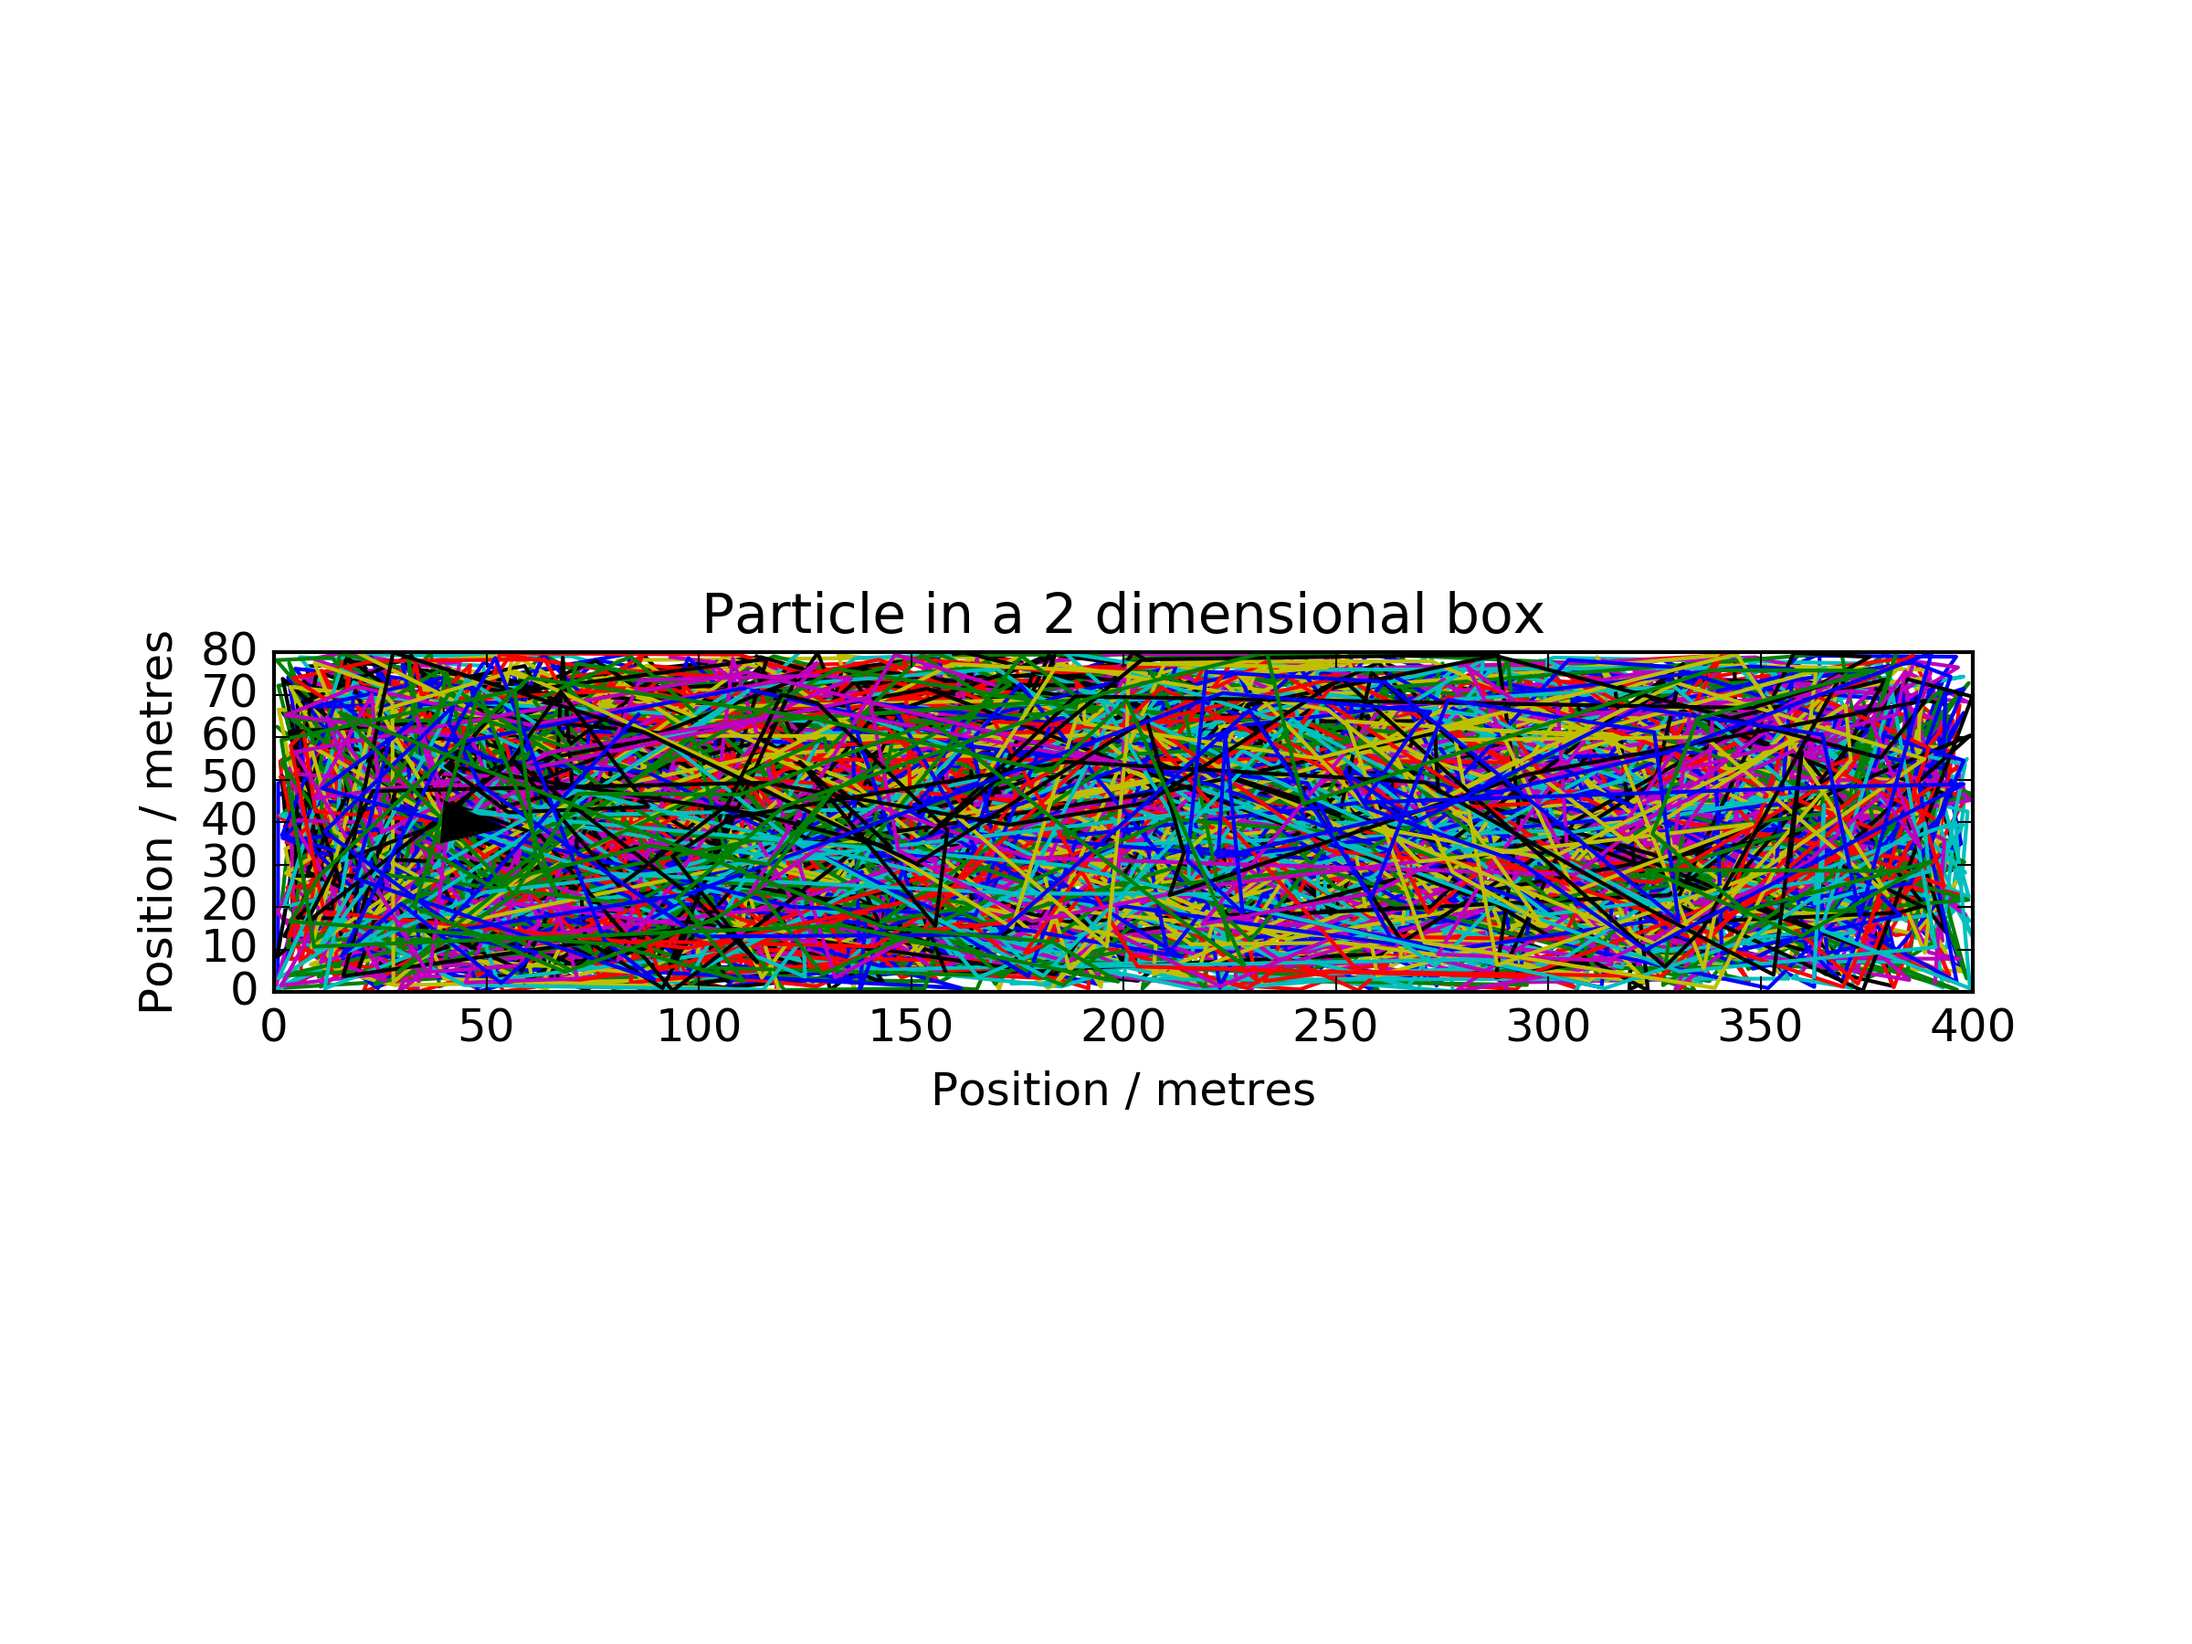
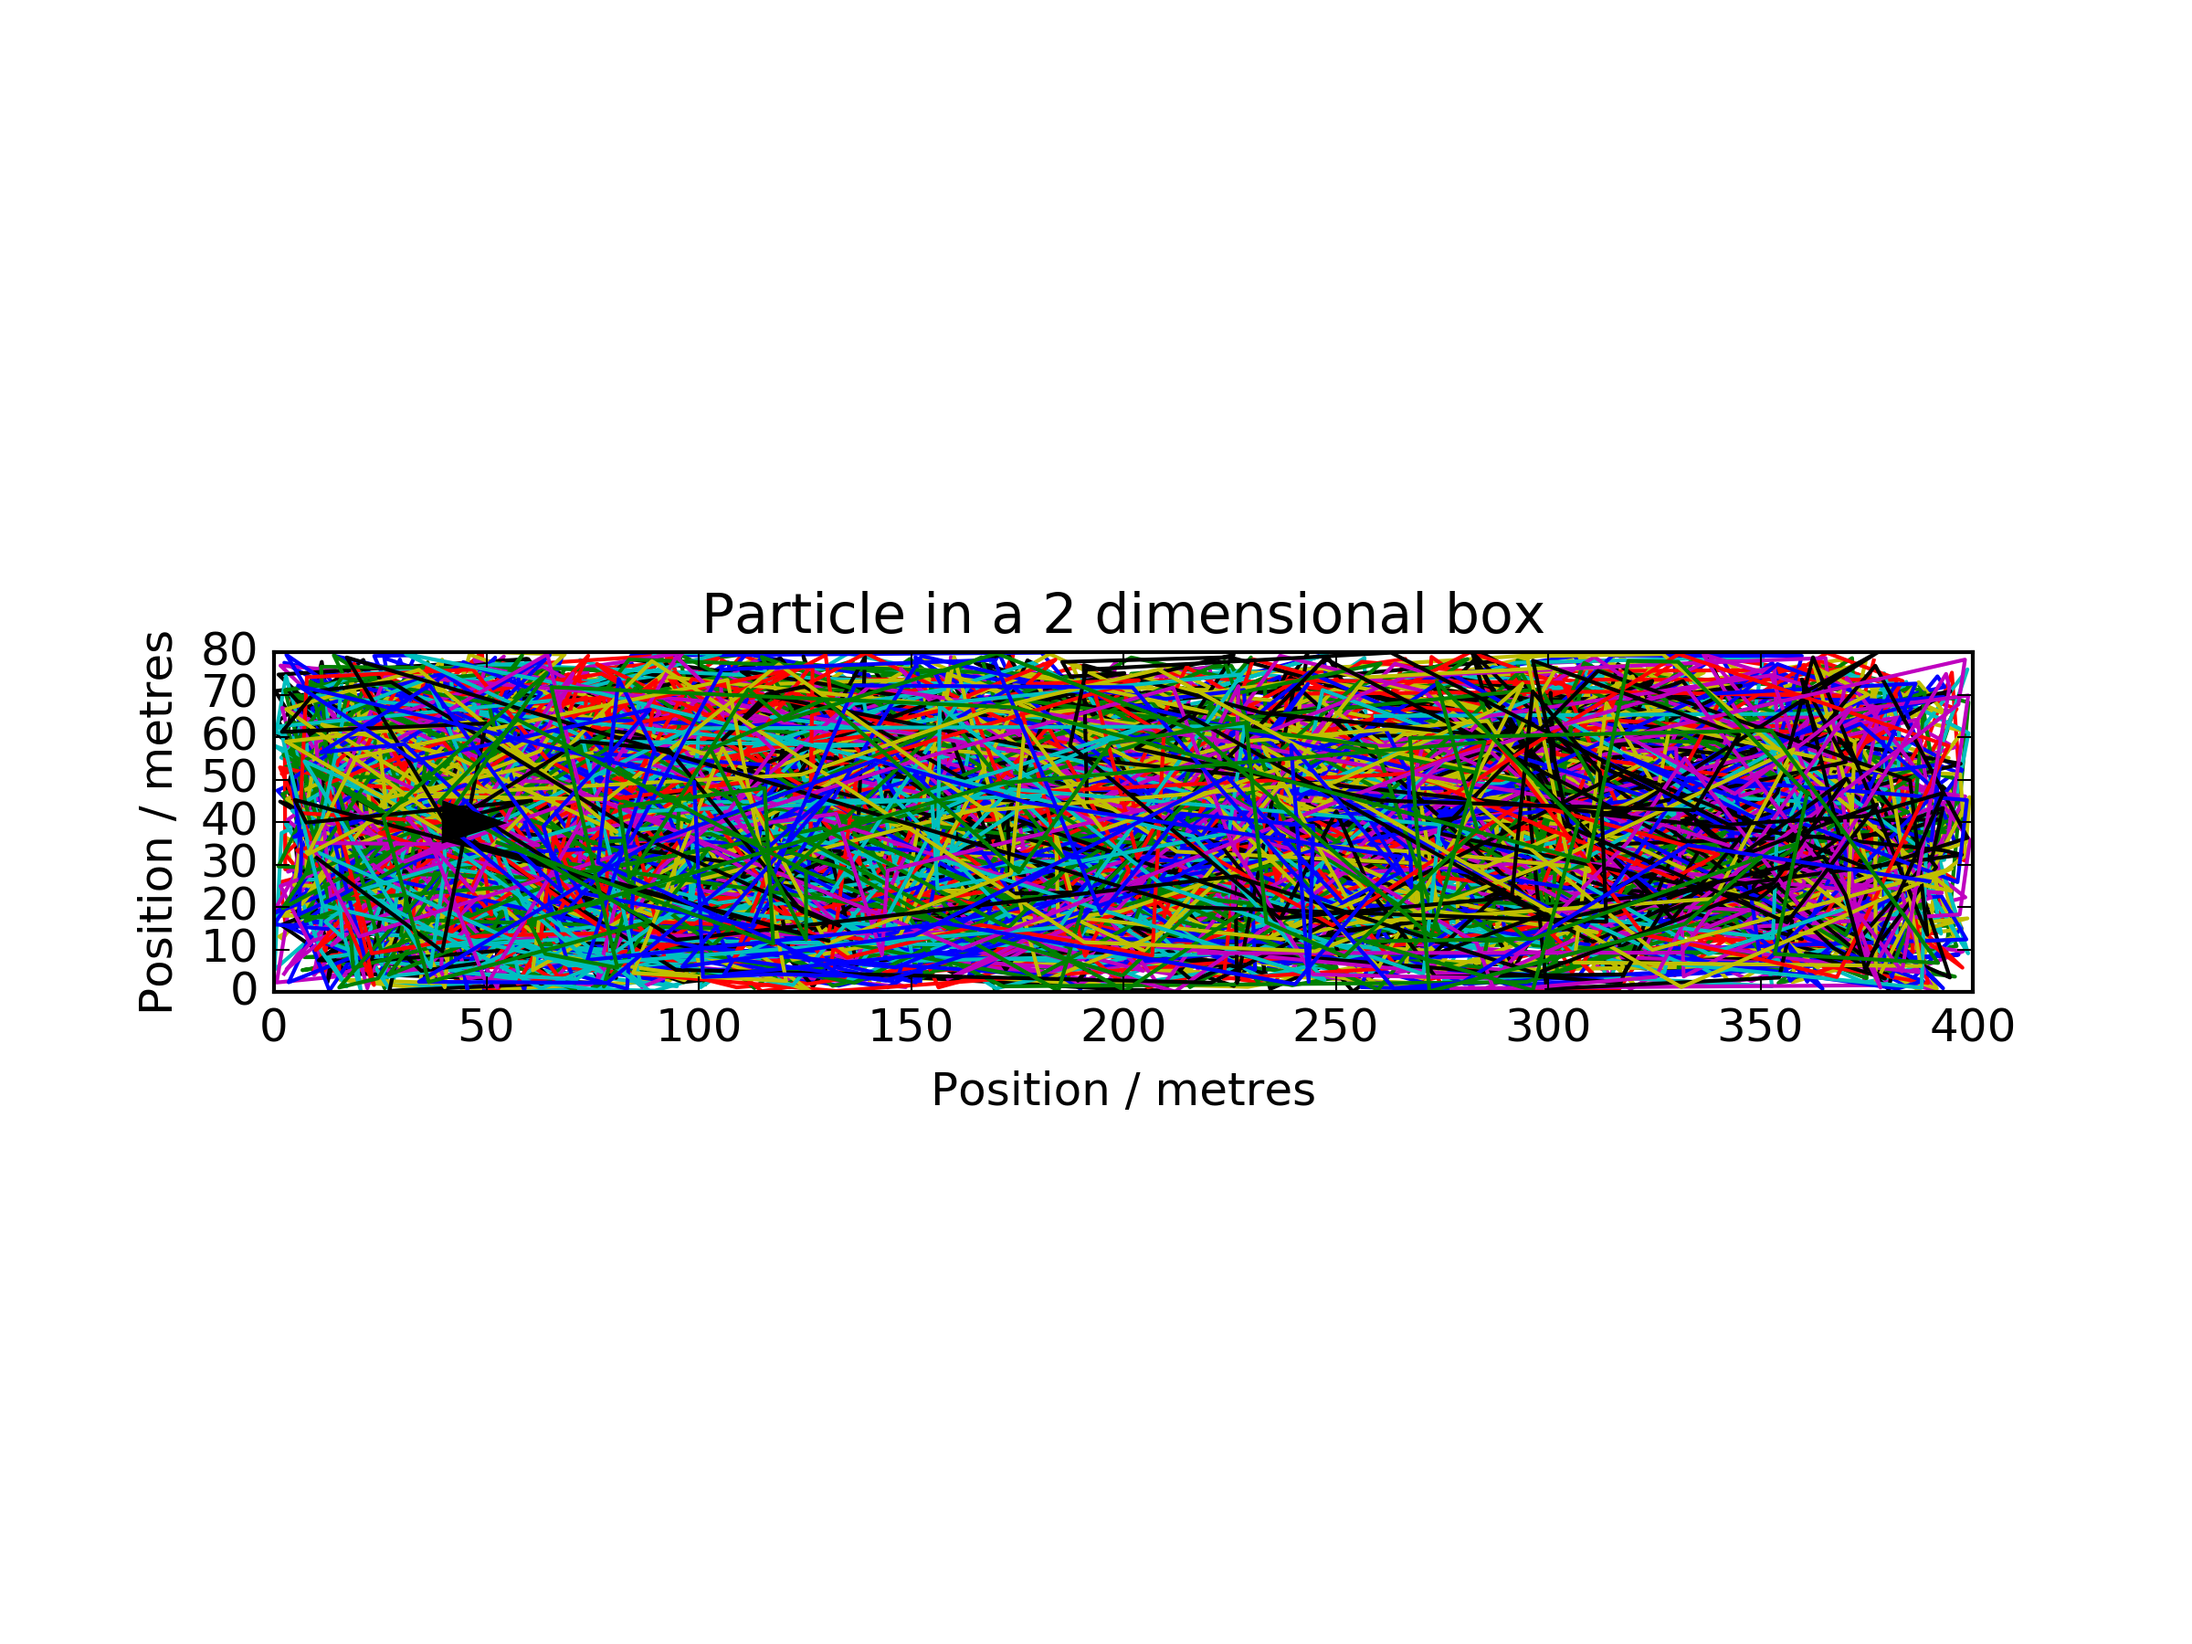
density not contour

Changed region(s): [[0.125, 0.3733, 0.9062, 0.6222]]

diff --git a/plotLightCone.py b/plotLightCone.py
@@ -81,13 +81,13 @@ def plot_3D(walks, environment, cur_macrostate, difference):
     ax.set_title("Particle in a 2 dimensional box")
     ax.set_xlim(0.0, 400.0)
     ax.set_ylim(-160.0, 240.0)
-    ax.set_zlim(0.0, 50.0)
+    ax.set_zlim(0.0, 10.0)
     ax.set_xlabel("Position / metres")
     ax.set_ylabel("Position / metres")
     ax.set_zlabel("Time / ms")
     for walk in walks:
         walk_plot = [[w[i] for w in walk] for i in range(environment.DIMS)]
-        ax.plot(walk_plot[0][:10], walk_plot[1][:10], 5.0*array(range(len(walk_plot[0][:10]))))
+        ax.plot(walk_plot[0], walk_plot[1], 0.025 * array(range(len(walk_plot[0]))))
     arrow_prop_dict = dict(linewidth=3.0, mutation_scale=1.0, arrowstyle='-|>', color='k', shrinkA=0, shrinkB=0)
     a = Arrow3D([cur_macrostate[0], cur_macrostate[0] + difference[0]], [cur_macrostate[1], cur_macrostate[1] + difference[1]], [0.0, 0.0], **arrow_prop_dict)
     ax.add_artist(a)
@@ -109,13 +109,13 @@ def plot_kernel(kernel, cur_macrostate, difference):
     ax.set_xlim(xmin, xmax)
     ax.set_ylim(ymin, ymax)
     # Contourf plot
-    cfset = ax.contourf(xx, yy, f, cmap='Blues')
-    ## Or kernel density estimate plot instead of the contourf plot
+    #cfset = ax.contourf(xx, yy, f, cmap='Blues')
+    # Or kernel density estimate plot instead of the contourf plot
     ax.imshow(np.rot90(f), cmap='Blues', extent=[xmin, xmax, ymin, ymax])
     # Contour plot
-    cset = ax.contour(xx, yy, f, colors='k')
+    #cset = ax.contour(xx, yy, f, colors='k')
     # Label plot
-    ax.clabel(cset, inline=1, fontsize=10)
+    #ax.clabel(cset, inline=1, fontsize=10)
     ax.set_xlabel('Position / metres')
     ax.set_ylabel('Position / metres')
     ax.set_title("Particle in a 2 dimensional box")
@@ -145,6 +145,6 @@ if __name__ == "__main__":
     difference = environment.step_macrostate(array([0.0, 0.0]), force)
     plot_kernel(kernel, cur_macrostate, difference)
     plot_3D(walks, environment, cur_macrostate, difference)
-    plot_2D(walks, environment, cur_macrostate, difference)
+    #plot_2D(walks, environment, cur_macrostate, difference)
     
     

diff --git a/particleBox.py b/particleBox.py
@@ -31,7 +31,7 @@ class particleBox:
         'compute next distance by Forward Euler'
         random = self.DISTRIBUTION.rvs(self.DIMS)
         force = self.AMPLITUDE * random + self.MEAN
-        euler = self.TIMESTEP / (2.0*self.MASS)
+        euler = (self.TIMESTEP ** 2.0) / self.MASS
         pos = cur_state + (previousForce + force) * euler
         return pos, force
     
@@ -49,7 +49,7 @@ class particleBox:
     
     def step_macrostate(self, cur_macrostate, causal_entropic_force):
         'move the particle subject to causal_entropic_force'
-        euler = self.TIMESTEP / (2.0*self.MASS)
+        euler = (self.TIMESTEP ** 2.0) / self.MASS
         return cur_macrostate + causal_entropic_force * euler
 
     

diff --git a/agent.py b/agent.py
@@ -20,11 +20,17 @@ def log_volume_fractions(walks):
     points = array(points)
     kernel = gaussian_kde(points.T)
     logpdfs = [sum(kernel.logpdf(array(w).T)) for w in walks]
-    logpdfs = [exp(l) for l in logpdfs]
-    #minimum = min(logpdfs)
-    #logpdfs = [exp(minimum - l) for l in logpdfs]
-    #total = sum(logpdfs)
-    #logpdfs = [l / total for l in logpdfs]
+    #logpdfs = [exp(l) for l in logpdfs]
+    minimum = min(logpdfs)
+    logpdfs = [exp(minimum - l) for l in logpdfs]
+    total = sum(logpdfs)
+    logpdfs = [l / total for l in logpdfs]
+
+
+    # now plot x and y transition kernels
+
+    
+    
     print logpdfs
     return logpdfs
 
